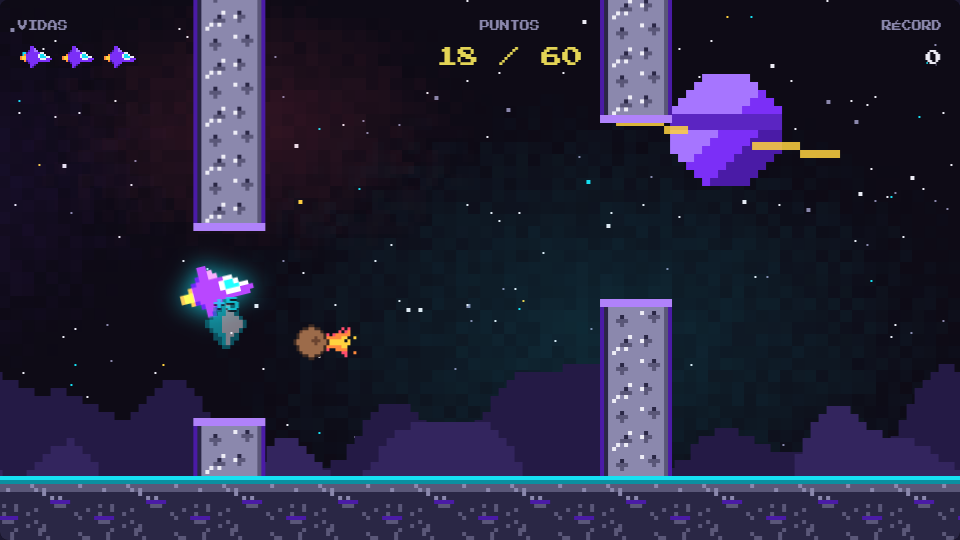
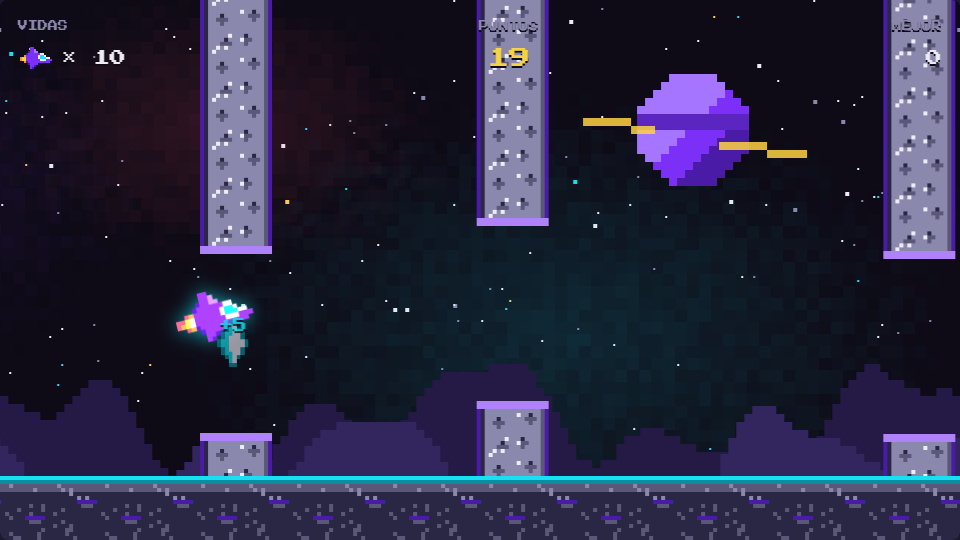
TPE5: 10 vidas y sin meta (se juega hasta perderlas y gana el récord)
- HUD de vidas: una navecita y la cantidad al lado; titila en rojo al perder
- Cartel final: "¡Nuevo récord!" o "Fin del viaje" con puntos, tiempo y mejor marca
- Textos de la página y capturas de la galería actualizados

diff --git a/TP5/EntregaFinal/nave.html b/TP5/EntregaFinal/nave.html
@@ -10,7 +10,7 @@
   <link rel="stylesheet" href="css/base.css?v=6">
   <link rel="stylesheet" href="css/comun.css?v=22">
   <link rel="stylesheet" href="css/juego.css?v=17">
-  <link rel="stylesheet" href="css/nave.css?v=2">
+  <link rel="stylesheet" href="css/nave.css?v=3">
 </head>
 <body>
 
@@ -43,7 +43,11 @@
               <div class="nave-hud">
                 <div class="hud__bloque">
                   <span class="hud__titulo">VIDAS</span>
-                  <div class="hud__vidas" id="hud-vidas"></div>
+                  <!-- Una sola navecita y la cantidad al lado: entra cualquier número de vidas -->
+                  <div class="hud__vidas">
+                    <span class="vida" aria-hidden="true"></span>
+                    <span id="hud-vidas"></span>
+                  </div>
                 </div>
                 <div class="hud__bloque hud__bloque--centro">
                   <span class="hud__titulo">PUNTOS</span>
@@ -60,12 +64,12 @@
               <div class="nave-pantalla" id="pantalla-inicio">
                 <div class="nave-pantalla__nave" aria-hidden="true"></div>
                 <h2 class="nave-pantalla__titulo">Nave Pixel</h2>
-                <p>Atravesá el cinturón de asteroides y sumá 60 puntos para llegar a la base.</p>
+                <p>Atravesá el cinturón de asteroides y llegá lo más lejos que puedas. Tenés 10 vidas.</p>
                 <button class="boton boton--primario" type="button" id="boton-jugar" disabled>Cargando…</button>
                 <p class="nave-pantalla__tecla">Clic, <span class="ayuda__tecla">Espacio</span> o <span class="ayuda__tecla">↑</span> para impulsar la nave</p>
               </div>
 
-              <!-- Pantalla de fin: llegó a la base o se quedó sin vidas -->
+              <!-- Pantalla de fin: se quedó sin vidas (puntos de la partida y récord) -->
               <div class="nave-pantalla nave-pantalla--fin" id="pantalla-fin" role="status" hidden>
                 <h2 class="nave-pantalla__titulo" id="fin-titulo"></h2>
                 <p id="fin-detalle"></p>
@@ -108,7 +112,7 @@
 
         <section class="ayuda__bloque">
           <h2 class="ayuda__titulo">Objetivo</h2>
-          <p>La nave avanza sola. Pasá por los huecos de las columnas de asteroides: cada columna suma 1 punto. Con <b>60 puntos</b> llegás a la base.</p>
+          <p>La nave avanza sola. Pasá por los huecos de las columnas de asteroides: cada columna suma 1 punto. Llegá lo más lejos posible y superá tu <b>mejor marca</b>: la partida termina cuando te quedás sin vidas.</p>
         </section>
 
         <section class="ayuda__bloque">
@@ -123,7 +127,7 @@
           </div>
           <div class="ayuda__fila">
             <span class="ayuda__icono ayuda__icono--columna" aria-hidden="true"></span>
-            <p><b>Columnas y suelo</b>: si chocás, perdés <b>una vida</b> (tenés 3). Los huecos se achican a medida que avanzás.</p>
+            <p><b>Columnas y suelo</b>: si chocás, perdés <b>una vida</b> (tenés 10). Los huecos se achican a medida que avanzás.</p>
           </div>
         </section>
       </aside>
@@ -134,12 +138,12 @@
       <h2 class="titulo-seccion">¿De qué trata este juego?</h2>
       <div class="ficha__texto">
         <p>
-          Sos la última nave de reparto de NeoArcade y tenés que cruzar el cinturón de asteroides para llegar a la base.
+          Sos la última nave de reparto de NeoArcade y tenés que cruzar el cinturón de asteroides. ¿Hasta dónde llegás?
           El problema: el camino está lleno de columnas de roca flotante y los huecos para pasar son cada vez más angostos.
         </p>
         <p>
-          Mantené la nave en el aire a puro impulso, juntá cristales de energía para llegar antes y esquivá los meteoritos,
-          que te dejan los motores andando a media máquina. Tenés tres vidas. ¿Llegás a la base?
+          Mantené la nave en el aire a puro impulso, juntá cristales de energía para sumar más puntos y esquivá los meteoritos,
+          que te dejan los motores andando a media máquina. Tenés diez vidas para batir tu récord.
         </p>
       </div>
 
@@ -153,8 +157,8 @@
           <figcaption class="texto-chico">Cristal de energía +5</figcaption>
         </figure>
         <figure class="galeria__item">
-          <img src="img/nave/galeria-3.png" alt="Cartel ¡Llegaste a la base! con los puntos y el tiempo de la partida" loading="lazy">
-          <figcaption class="texto-chico">¡Llegaste a la base!</figcaption>
+          <img src="img/nave/galeria-3.png" alt="Cartel ¡Nuevo récord! con los puntos y el tiempo de la partida" loading="lazy">
+          <figcaption class="texto-chico">¡Nuevo récord!</figcaption>
         </figure>
       </div>
 
@@ -236,10 +240,10 @@
   <script src="js/pagina-juego.js?v=1"></script>
   <script src="js/nave/utiles.js?v=1"></script>
   <script src="js/nave/Parallax.js?v=1"></script>
-  <script src="js/nave/Nave.js?v=1"></script>
+  <script src="js/nave/Nave.js?v=2"></script>
   <script src="js/nave/Columnas.js?v=1"></script>
   <script src="js/nave/Elementos.js?v=1"></script>
-  <script src="js/nave/Juego.js?v=1"></script>
-  <script src="js/pagina-nave.js?v=1"></script>
+  <script src="js/nave/Juego.js?v=3"></script>
+  <script src="js/pagina-nave.js?v=2"></script>
 </body>
 </html>

diff --git a/TP5/EntregaFinal/js/nave/Juego.js b/TP5/EntregaFinal/js/nave/Juego.js
@@ -19,7 +19,6 @@
 const VELOCIDAD = 200; // px/s a los que avanza el escenario (velocidad constante)
 const FACTOR_LENTO = 0.45; // con un meteorito encima, el escenario va al 45 %
 const SEGUNDOS_LENTO = 2.5;
-const META = 60; // puntos para llegar a la base y ganar
 const DT_MAXIMO = 0.05; // s: tope de dt
 const CLAVE_RECORD = "nave-pixel-record";
 
@@ -43,7 +42,7 @@ class Juego {
     this.parallax = new Parallax(mundo);
     this.columnas = new Columnas(mundo);
     this.elementos = new Elementos(mundo);
-    this.nave = new Nave(mundo, () => this.terminar(false));
+    this.nave = new Nave(mundo, () => this.terminar());
     if (VER_HITBOX) this.escenario.classList.add("escenario--hitbox");
 
     this.estado = "inicio";
@@ -167,6 +166,10 @@ class Juego {
   // Después de perder una vida: si no quedan más, la nave explota (y al terminar la animación, fin)
   despuesDeGolpe() {
     this.actualizarHud();
+    // El número de vidas titila en rojo (mismo truco del reflow para reiniciar la animación)
+    this.hud.vidas.classList.remove("hud__vidas--pierde");
+    void this.hud.vidas.offsetWidth;
+    this.hud.vidas.classList.add("hud__vidas--pierde");
     if (this.nave.vidas === 0) this.estado = "explotando";
   }
 
@@ -183,18 +186,17 @@ class Juego {
     this.hud.aviso.classList.add("hud__aviso--visible");
   }
 
-  // Suma puntos, hace "saltar" el número del HUD y revisa si se llegó a la meta
+  // Suma puntos y hace "saltar" el número del HUD
   sumarPuntos(cantidad) {
-    this.puntos = Math.min(META, this.puntos + cantidad);
+    this.puntos += cantidad;
     this.actualizarHud();
     this.hud.puntos.classList.remove("hud__puntos--sube");
     void this.hud.puntos.offsetWidth; // reinicia la animación aunque ya estuviera
     this.hud.puntos.classList.add("hud__puntos--sube");
-    if (this.puntos >= META) this.terminar(true);
   }
 
-  // Fin de la partida: gano = true si llegó a la meta, false si se quedó sin vidas
-  terminar(gano) {
+  // Fin de la partida (se quedó sin vidas): muestra los puntos y si superó el récord
+  terminar() {
     this.estado = "fin";
     this.hud.aviso.classList.remove("hud__aviso--visible"); // si terminó frenada, el aviso ya no corresponde
     const nuevoRecord = this.puntos > this.record;
@@ -204,20 +206,18 @@ class Juego {
     }
     this.actualizarHud();
 
-    document.getElementById("fin-titulo").textContent = gano ? "¡Llegaste a la base!" : "Nave destruida";
-    this.pantallaFin.classList.toggle("nave-pantalla--gano", gano);
+    // Con récord nuevo el cartel festeja (amarillo); si no, avisa que se terminó el viaje (rojo)
+    document.getElementById("fin-titulo").textContent = nuevoRecord ? "¡Nuevo récord!" : "Fin del viaje";
+    this.pantallaFin.classList.toggle("nave-pantalla--record", nuevoRecord);
     document.getElementById("fin-detalle").textContent =
-      `${this.puntos} de ${META} puntos en ${Math.round(this.tiempo)} s` + (nuevoRecord ? " · ¡Nuevo récord!" : "");
+      `${this.puntos} puntos en ${Math.round(this.tiempo)} s · Tu mejor marca: ${this.record}`;
     this.pantallaFin.hidden = false;
   }
 
-  // Pasa los números al HUD: una navecita por vida (las perdidas, apagadas), puntos y récord
+  // Pasa los números al HUD: vidas (una navecita y la cantidad al lado), puntos y récord
   actualizarHud() {
-    this.hud.vidas.innerHTML = "";
-    for (let i = 0; i < VIDAS; i++) {
-      crearDiv(i < this.nave.vidas ? "vida" : "vida vida--perdida", this.hud.vidas);
-    }
-    this.hud.puntos.textContent = `${this.puntos} / ${META}`;
+    this.hud.vidas.textContent = `× ${this.nave.vidas}`;
+    this.hud.puntos.textContent = this.puntos;
     this.hud.record.textContent = this.record;
   }
 

diff --git a/TP5/EntregaFinal/css/nave.css b/TP5/EntregaFinal/css/nave.css
@@ -355,12 +355,14 @@
   color: var(--texto-secundario);
 }
 
+/* Una navecita y la cantidad al lado ("× 10"): entra cualquier número de vidas */
 .hud__vidas {
   display: flex;
-  gap: 6px;
+  align-items: center;
+  gap: 8px;
 }
 
-/* Cada vida es el primer cuadro del spritesheet de la nave, a la mitad de tamaño
+/* La navecita es el primer cuadro del spritesheet de la nave, a la mitad de tamaño
    (la imagen entera mide 304 × 44 → a la mitad, 152 × 22) */
 .vida {
   width: 36px;
@@ -368,9 +370,14 @@
   background: url("../img/nave/nave.svg") 0 0 / 152px 22px no-repeat;
 }
 
-.vida--perdida {
-  opacity: 0.25;
-  filter: grayscale(1);
+/* Al perder una vida, el número titila en rojo */
+.hud__vidas--pierde {
+  animation: vidas-pierde 0.6s steps(2) 3;
+}
+
+@keyframes vidas-pierde {
+  0% { color: var(--error); }
+  100% { color: var(--texto); }
 }
 
 .hud__puntos {
@@ -447,7 +454,7 @@
   color: var(--error);
 }
 
-.nave-pantalla--gano .nave-pantalla__titulo {
+.nave-pantalla--record .nave-pantalla__titulo {
   color: var(--acento);
 }
 

diff --git a/TP5/EntregaFinal/js/pagina-nave.js b/TP5/EntregaFinal/js/pagina-nave.js
@@ -15,7 +15,7 @@ const IMAGENES_NAVE = [
 // Reseñas de ejemplo de la Comunidad
 const COMENTARIOS = [
   { nick: "AstroGamer", fecha: "hace 2 horas", texto: "El meteorito que te frena es un detalle genial: hay que aprender a esquivarlo y no solo a pasar las columnas." },
-  { nick: "PixelPilot", fecha: "hace 1 día", texto: "Llegué a la base con una sola vida. Los últimos huecos son muy angostos, ¡qué nervios!" },
+  { nick: "PixelPilot", fecha: "hace 1 día", texto: "Pasé los 100 puntos con una sola vida. Cuando los huecos se achican, ¡qué nervios!" },
   { nick: "LunaRetro", fecha: "hace 3 días", texto: "Me encanta cómo se mueven las capas del fondo, se siente la profundidad del espacio." },
 ];
 

diff --git a/TP5/EntregaFinal/js/nave/Nave.js b/TP5/EntregaFinal/js/nave/Nave.js
@@ -21,7 +21,7 @@ const ALTO_NAVE = 44;
 const GRAVEDAD = 1500; // px/s² hacia abajo
 const IMPULSO = -470; // px/s hacia arriba al hacer clic
 const CAIDA_MAXIMA = 620; // px/s: tope de la velocidad de caída
-const VIDAS = 3;
+const VIDAS = 10; // el juego no tiene meta: se juega hasta perderlas todas (gana el récord)
 const SEGUNDOS_INVULNERABLE = 1.5; // después de un golpe, para no perder 2 vidas en el mismo choque
 
 // Caja de choque: más chica que el dibujo (sin la llama ni las puntas de las alas)
